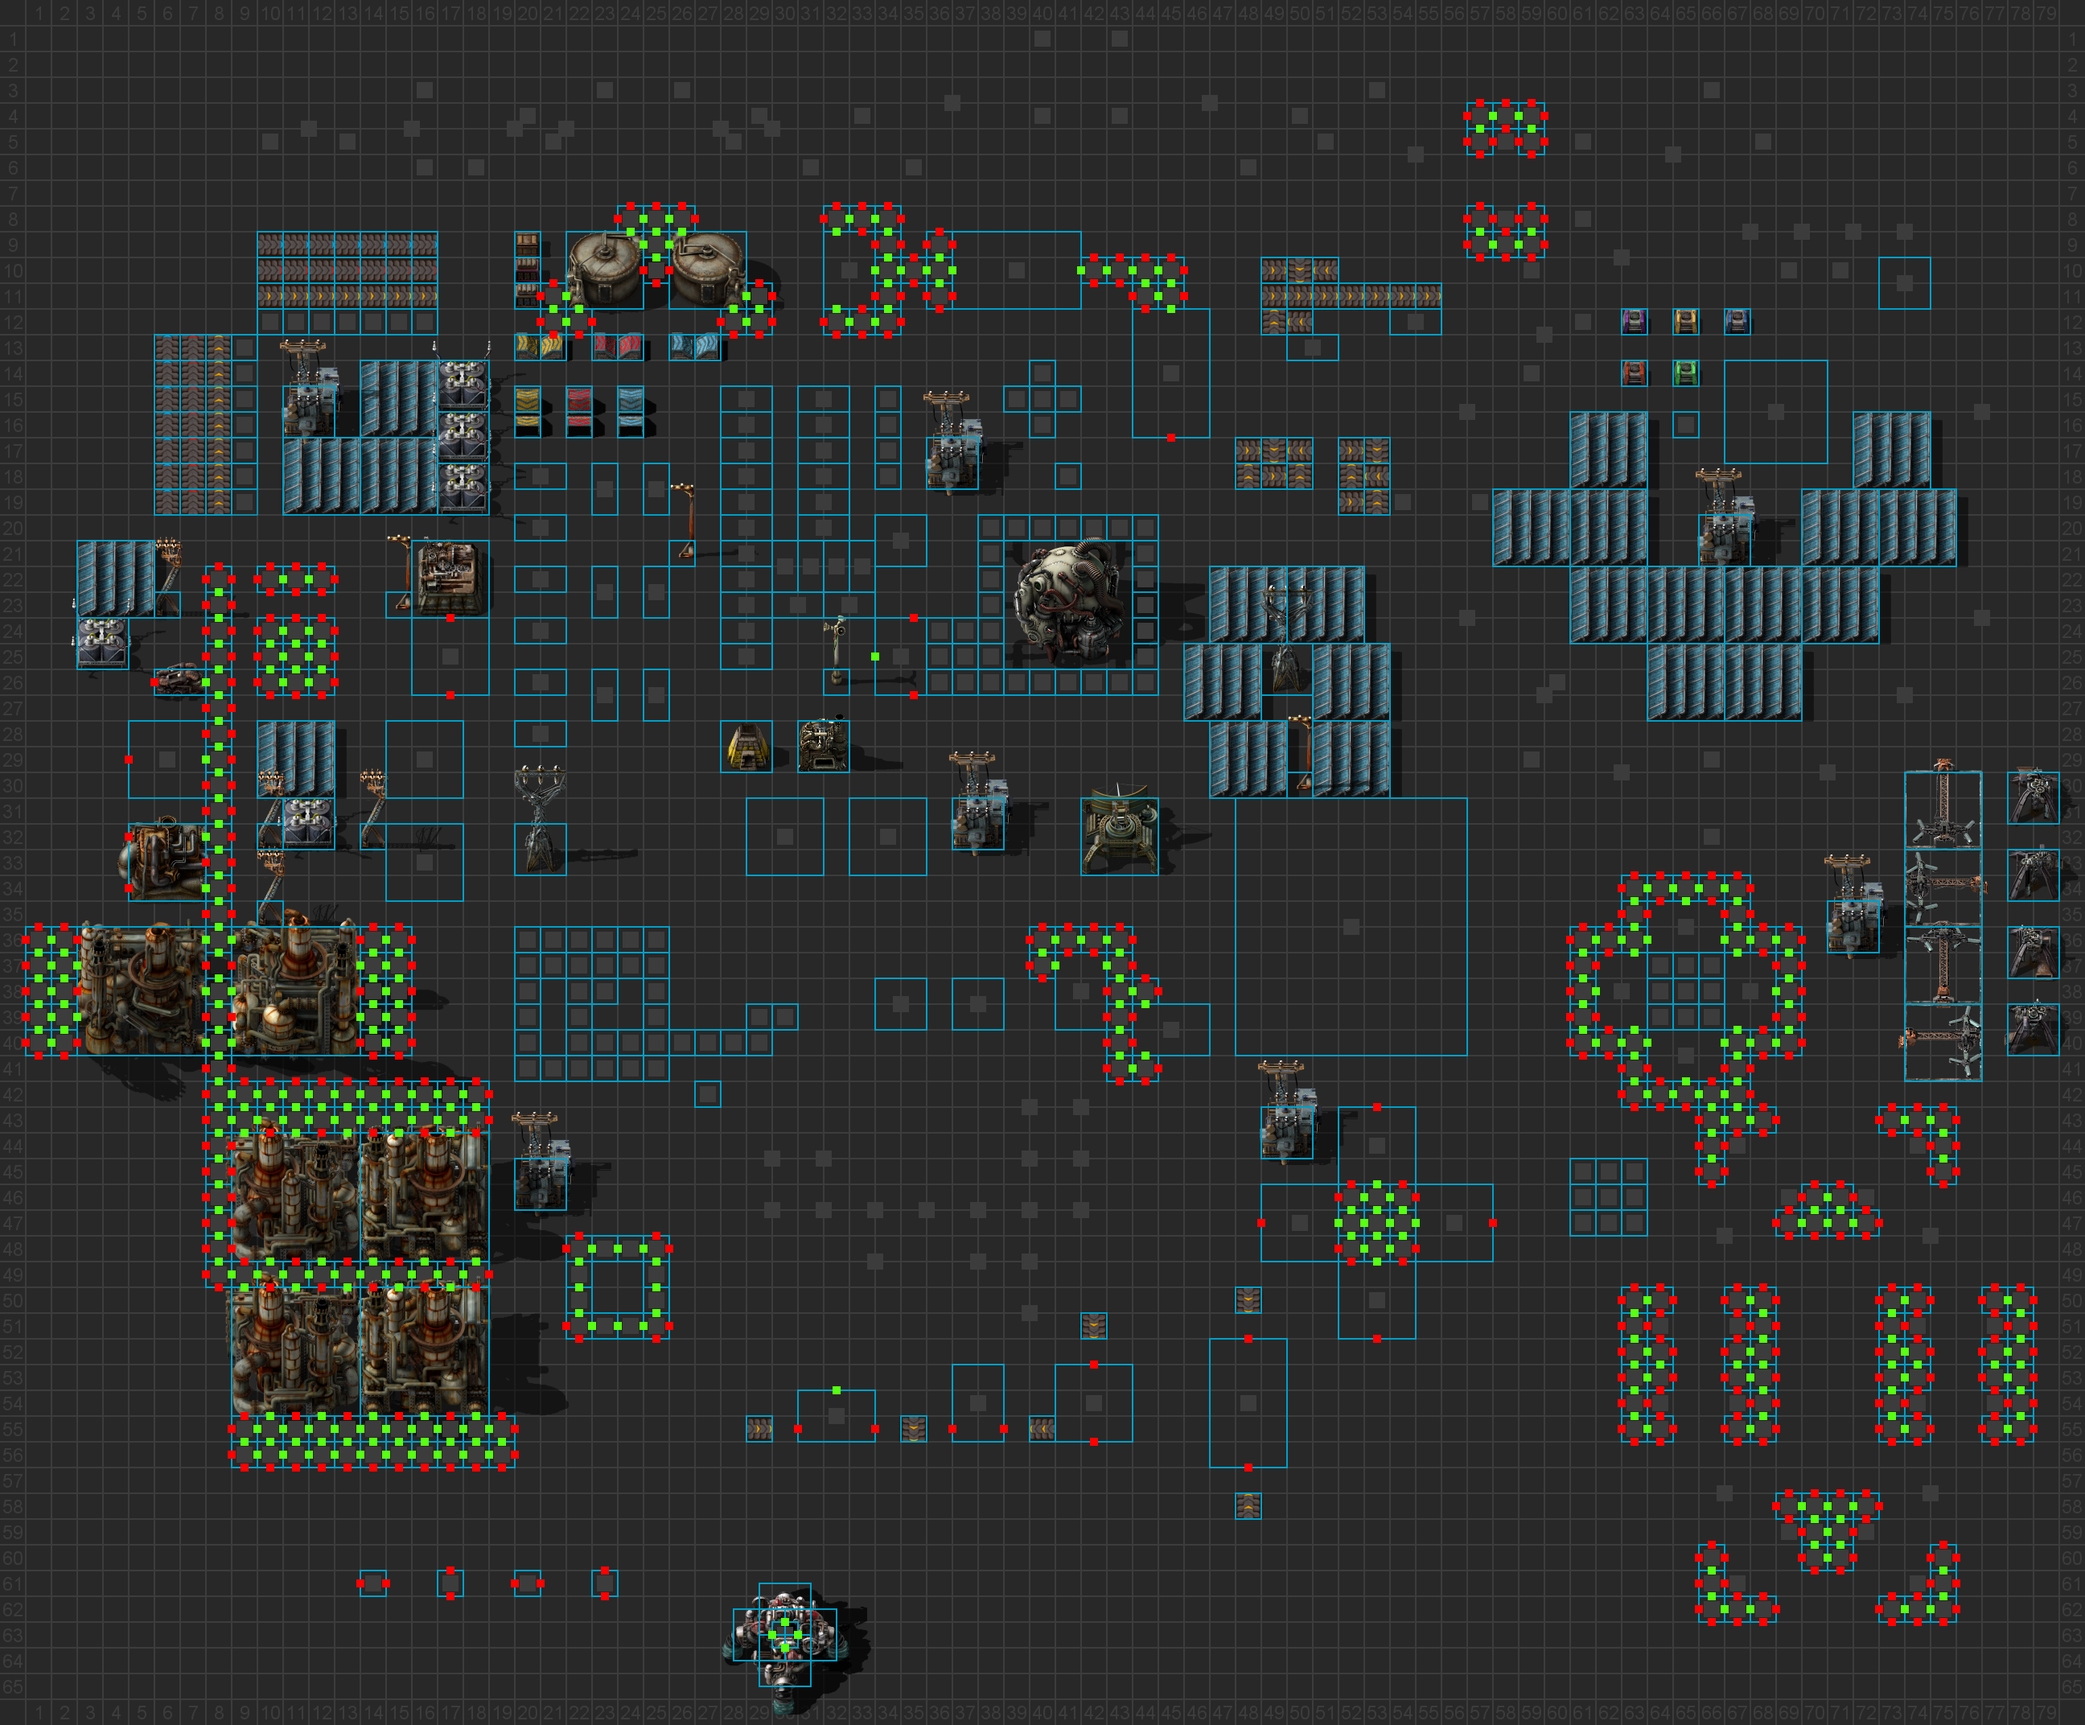
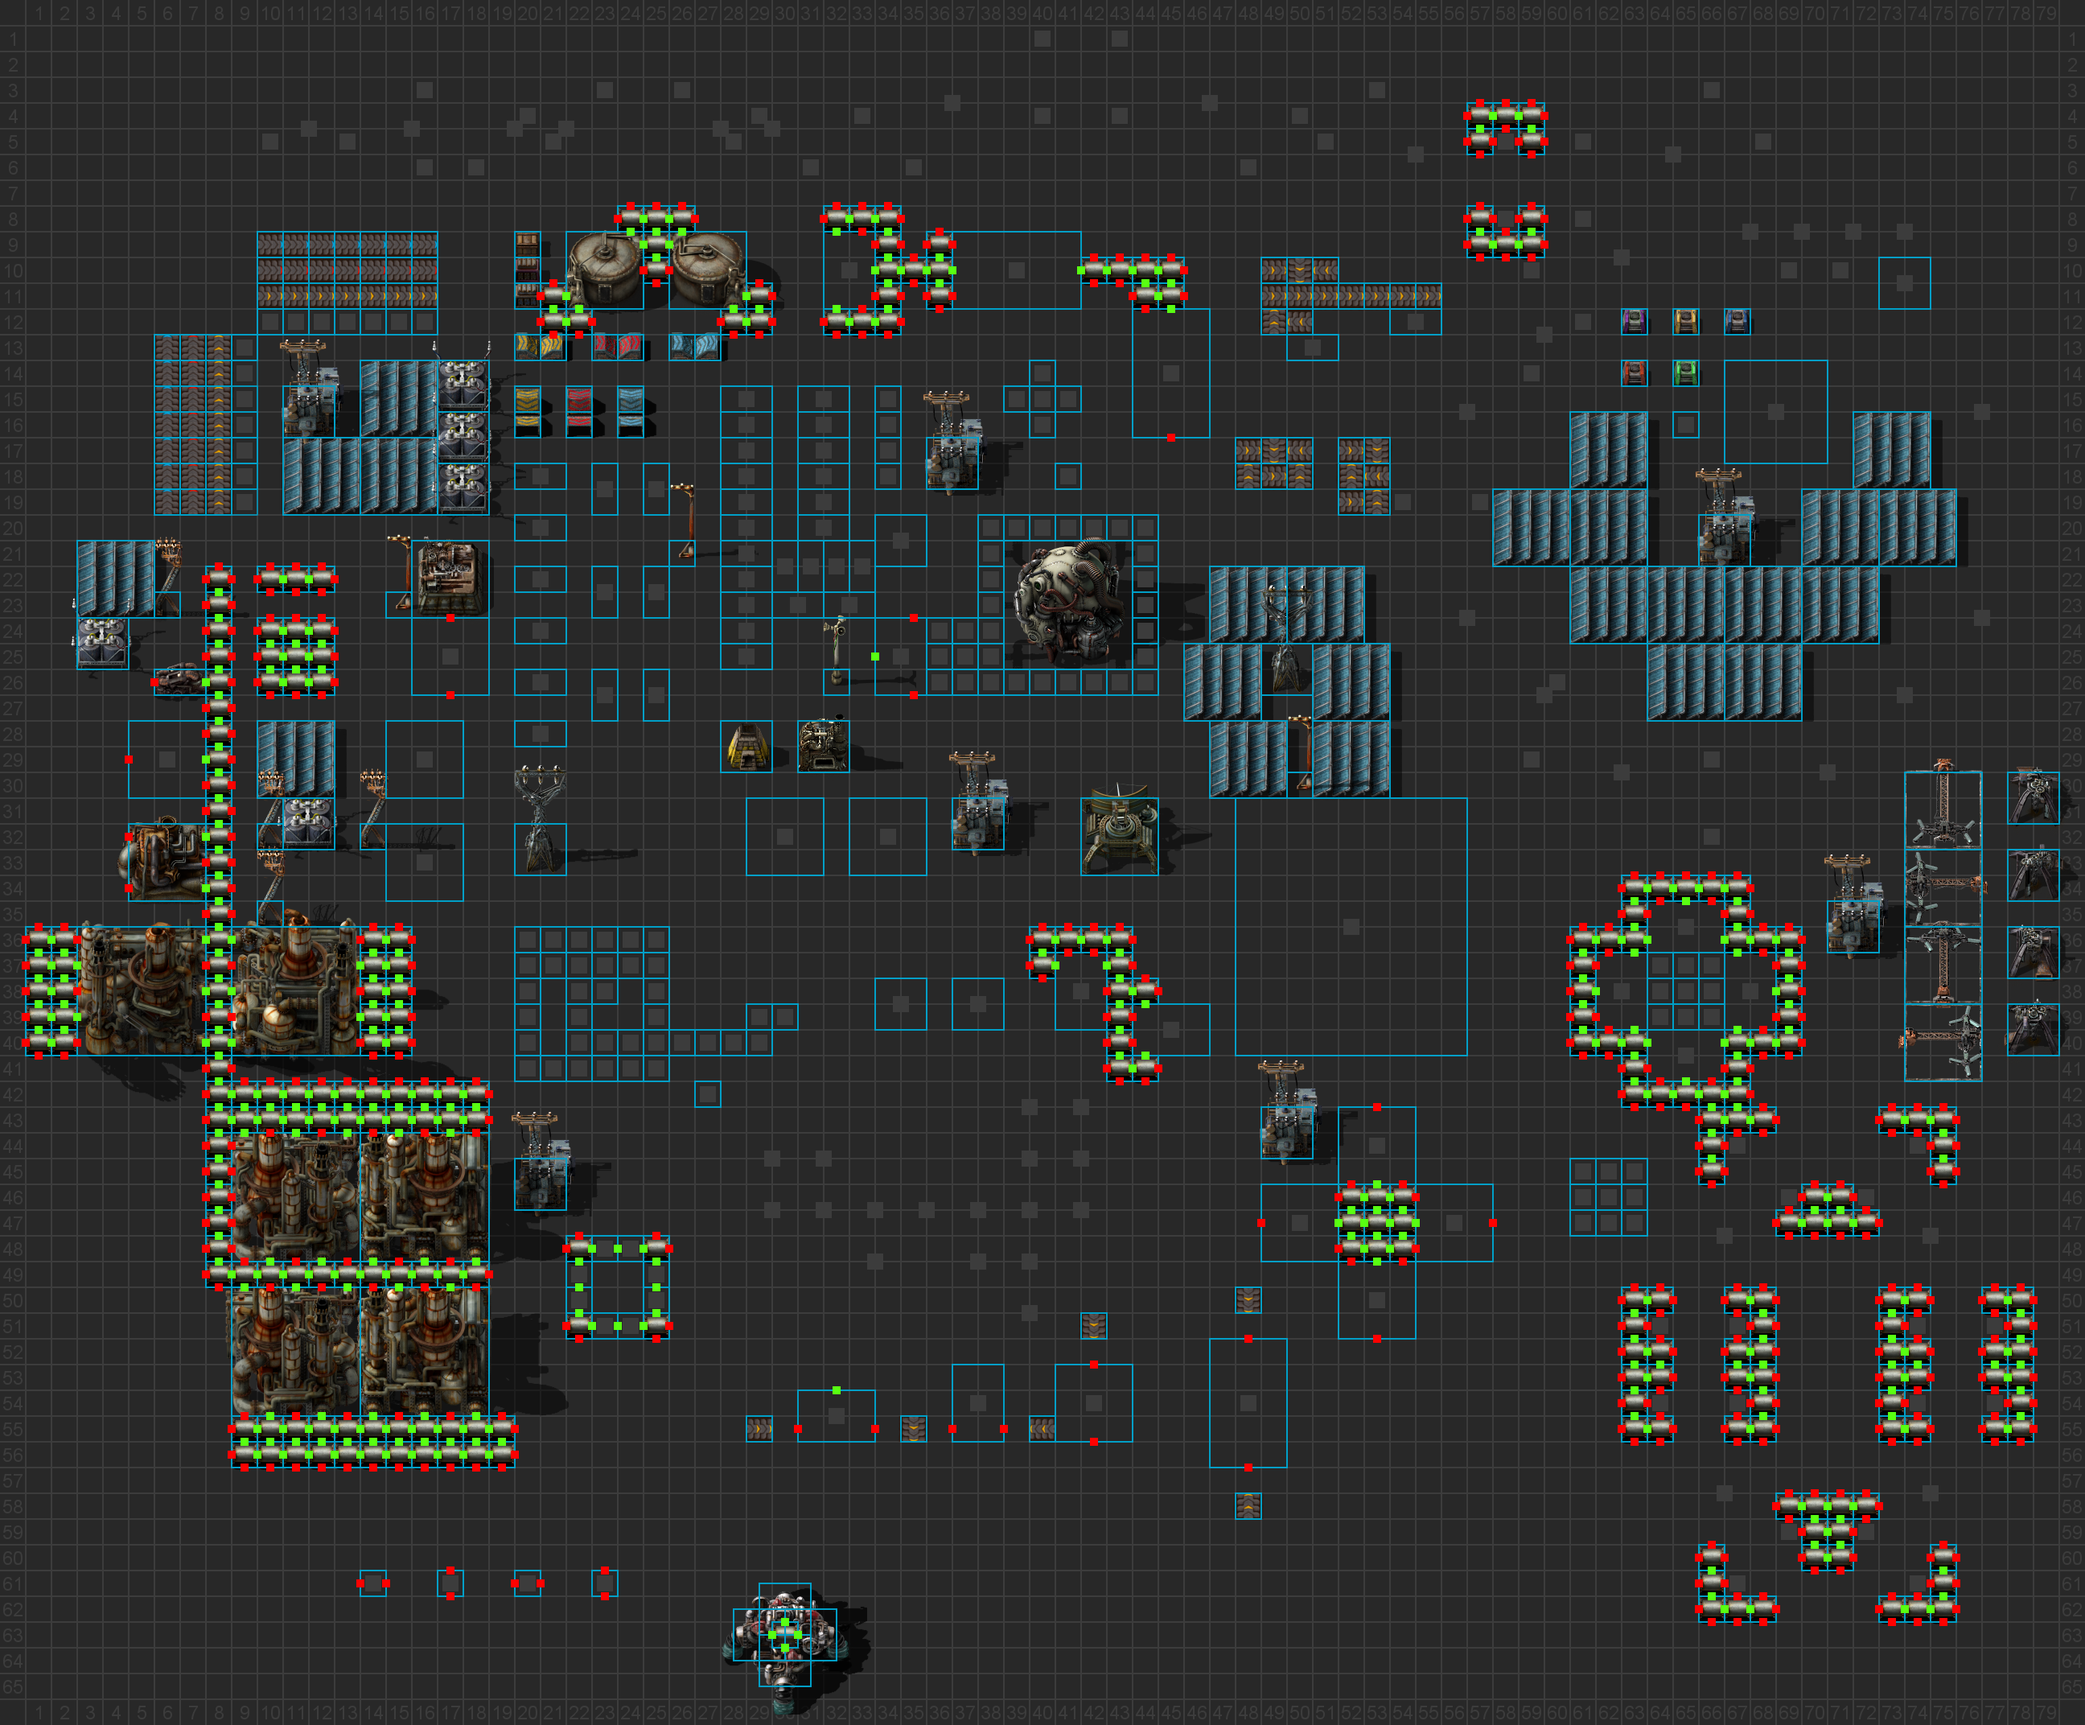
Some cleanup; add basic pipe renderer

diff --git a/src/models/entity/entity.ts b/src/models/entity/entity.ts
@@ -1,13 +1,15 @@
 import { Image } from "canvas";
-import { EntityGridView } from "../render/Blueprint";
-import GenericRenderer from "../render/renderers/generic.renderer";
-import TransportBeltRenderer from "../render/renderers/transport-belt.renderer";
-import UndergroundBeltRenderer from "../render/renderers/underground-belt.renderer";
-import { BlueprintEntity } from "./blueprint";
-import { Vector } from "./index";
-import { RenderPassType } from "./pass";
-import { Renderer } from "./renderer";
-import { SpriteData } from "./sprite";
+import { Vector } from "..";
+import { EntityGridView } from "../../render/Blueprint";
+import GenericRenderer from "../../render/renderers/generic.renderer";
+import PipeRenderer from "../../render/renderers/pipe.renderer";
+import TransportBeltRenderer from "../../render/renderers/transport-belt.renderer";
+import UndergroundBeltRenderer from "../../render/renderers/underground-belt.renderer";
+import { BlueprintEntity } from "../blueprint";
+import { RenderPassType } from "../pass";
+import { Renderer } from "../renderer";
+import { SpriteData } from "../sprite";
+import { PicturesTypes, PictureTypes } from "./entity-pictures";
 
 export interface RecipeData {
   type: string;
@@ -35,16 +37,6 @@ export interface ItemData {
   place_result: string;
   flags: Array<string>;
 }
-
-type PictureTypes = SpriteData |
-  { layers: Array<SpriteData> } |
-  { sheets: Array<SpriteData> } |
-  { north: PictureTypes, east: PictureTypes, south: PictureTypes, west: PictureTypes };
-
-type PicturesTypes = PictureTypes |
-  SpriteData |
-  { picture: PictureTypes } |
-  { left: SpriteData, right: SpriteData, up: SpriteData, down: SpriteData };
 
 type SpriteTypes = SpriteData |
   { layers: Array<SpriteData> };
@@ -92,7 +84,7 @@ export interface EntitySprite {
 }
 
 const renderers: { [key: string]: Renderer | undefined; } = {
-  "pipe": undefined,
+  "pipe": new PipeRenderer(),
   "stone-wall": undefined,
   "straight-rail": undefined,
   "curved-rail": undefined,

diff --git a/src/models/entity/entity-pictures.ts b/src/models/entity/entity-pictures.ts
@@ -1,0 +1,62 @@
+import { SpriteData } from "../sprite";
+
+export type PictureTypes = SpriteData |
+  LayerPictureTypes |
+  SheetsPictureTypes |
+{ north: PictureTypes, east: PictureTypes, south: PictureTypes, west: PictureTypes };
+
+export interface LayerPictureTypes {
+  layers: Array<SpriteData>;
+}
+
+export interface SheetsPictureTypes {
+  sheets: Array<SpriteData>;
+}
+
+export interface DirectionalPictureTypes {
+  north: PictureTypes;
+  south: PictureTypes;
+  east: PictureTypes;
+  west: PictureTypes;
+}
+
+export type PicturesTypes = PictureTypes |
+  SpriteData |
+  PicturePicturesTypes |
+  SubPicturesTypes;
+
+export interface PicturePicturesTypes {
+  picture: PictureTypes;
+}
+
+export interface SubPicturesTypes {
+  left?: SpriteData;
+  right?: SpriteData;
+  up?: SpriteData;
+  down?: SpriteData;
+  straight_vertical_window?: SpriteData;
+  t_down?: SpriteData;
+  corner_up_left?: SpriteData;
+  straight_horizontal_window?: SpriteData;
+  ending_left?: SpriteData;
+  ending_down?: SpriteData;
+  horizontal_window_background?: SpriteData;
+  vertical_window_background?: SpriteData;
+  gas_flow?: SpriteData;
+  ending_up?: SpriteData;
+  straight_horizontal?: SpriteData;
+  ending_right?: SpriteData;
+  middle_temperature_flow?: SpriteData;
+  corner_down_right?: SpriteData;
+  fluid_background?: SpriteData;
+  high_temperature_flow?: SpriteData;
+  t_right?: SpriteData;
+  corner_up_right?: SpriteData;
+  cross?: SpriteData;
+  t_left?: SpriteData;
+  straight_vertical?: SpriteData;
+  straight_vertical_single?: SpriteData;
+  t_up?: SpriteData;
+  corner_down_left?: SpriteData;
+  low_temperature_flow?: SpriteData;
+}

diff --git a/src/render/renderers/pipe.renderer.ts b/src/render/renderers/pipe.renderer.ts
@@ -1,0 +1,35 @@
+import { createCanvas } from "canvas";
+import { BlueprintEntity, EntitySprite, RenderPassType } from "../../models";
+import { SubPicturesTypes } from "../../models/entity/entity-pictures";
+import { EntityGridView } from "../Blueprint";
+import { getEntity } from "../ItemData";
+import GenericRenderer from "./generic.renderer";
+
+export default class PipeRenderer extends GenericRenderer {
+
+  public async renderPass(entity: BlueprintEntity, pass: RenderPassType, highRes: boolean = false, animationFrame: number = 0, grid: EntityGridView): Promise<EntitySprite> {
+    const ent = getEntity(entity.name);
+
+    if (!ent) {
+      throw new Error(`Entity '${entity.name}' doesn't exist!`);
+    }
+
+    const pictures = (ent.entity.pictures as SubPicturesTypes);
+
+    if (!pictures.straight_horizontal) {
+      throw new Error(`Unable to render ${entity.name}`);
+    }
+
+    const source = pictures.straight_horizontal;
+
+    return this.loadSprite(source, entity, pass, "", highRes, animationFrame, grid, (canvas, ctx) => {
+      // TODO Bend based on surroundings
+      return canvas;
+    });
+  }
+
+  public getKey(entity: BlueprintEntity, pass: RenderPassType, highRes: boolean, animationFrame: number, grid: EntityGridView): string {
+    return entity.name + "_" + (entity.direction || 0) + "_" + pass + "_" + animationFrame;
+  }
+
+}

diff --git a/src/models/renderer.ts b/src/models/renderer.ts
@@ -1,6 +1,6 @@
+import { BlueprintEntity, RenderPassType } from ".";
 import { EntityGridView } from "../render/Blueprint";
-import { EntitySprite } from "./entity";
-import { BlueprintEntity, RenderPassType } from "./index";
+import { EntitySprite } from "./entity/entity";
 
 export interface Renderer {
 

diff --git a/src/models/index.ts b/src/models/index.ts
@@ -1,6 +1,6 @@
 export * from "./blueprint";
 export * from "./positioning";
-export * from "./entity";
+export * from "./entity/entity";
 export * from "./renderer";
 export * from "./sprite";
 export * from "./pass";
